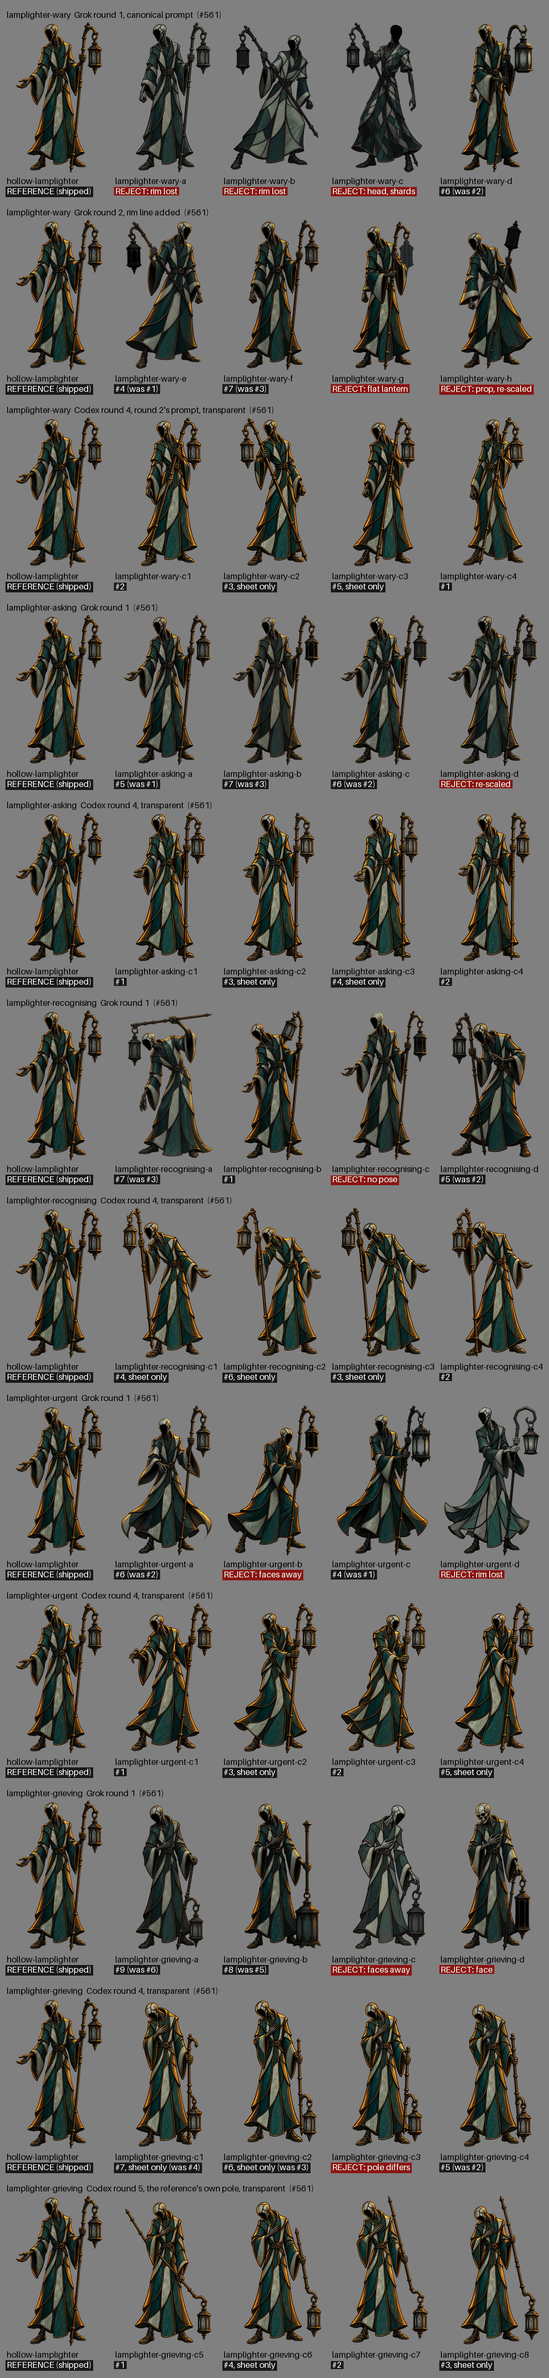
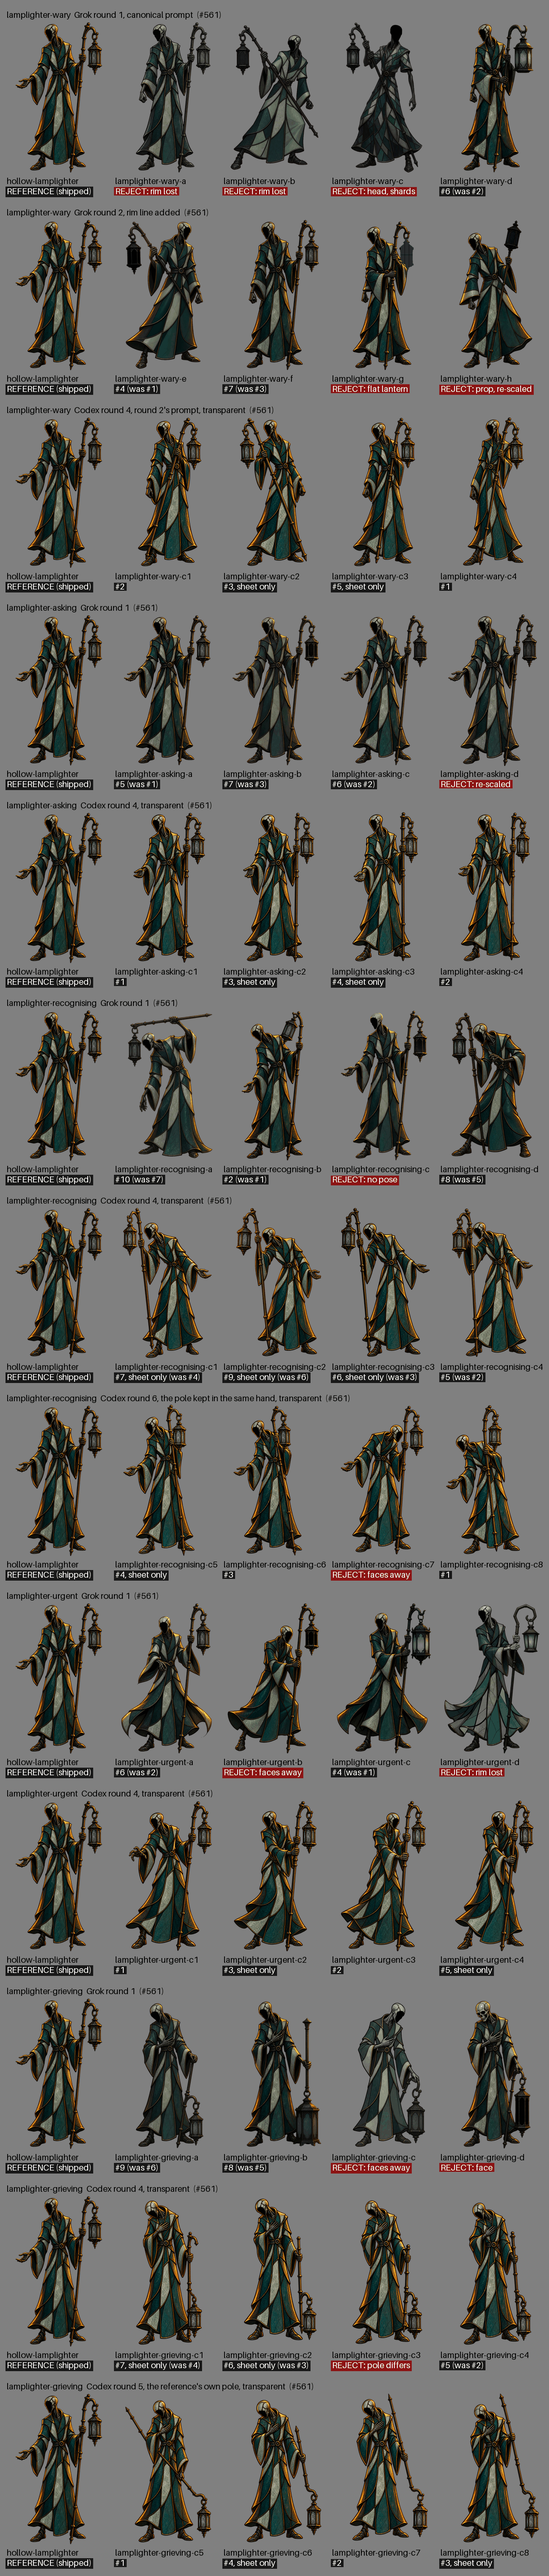
art(stagecraft): round 6, recognising with the pole kept in the same hand
The shipped lamplighter-recognising-c4 (PR #591) holds the pole in his
other hand, so the lantern changes sides on every cut to and from his
other moods. Round 6 asks Codex for the reference's own staff in the hand
on the viewer's right, with the lantern on the viewer's right of his head,
as measured on the reference and on the landed wary, asking and urgent. The
four takes vary how far he leans and how high the lantern rises.

All four keep the side: the lantern sits 118-225 px right of his head,
against the reference's 306. c7 bows toward the viewer's right, away from
his partner, and is rejected. c8, the deepest lean of all rounds with the
lantern held high, leads the cross-round ranking (c8, b, c6, c5, c4, c3,
c1, d, c2, a).

Commits c8 and c6 as survivors, rebuilds the Lamplighter contact sheet
with a round-6 row, and adds the Round 6 section with the exact requests,
the pole-side measurements and the gate.

Claude-Session: https://claude.ai/code/session_01N775uHkEnAcuFy6ZMN3DVy

diff --git a/docs/design/2026-09-29-stagecraft-art/README.md b/docs/design/2026-09-29-stagecraft-art/README.md
@@ -7,7 +7,8 @@ landing commit then copies each pick to its ledgered path, commits the
 `.import` sidecar, moves the ledger row to Shipped with the prompt that
 rendered it, and takes the stills the issues ask for.
 
-136 candidates were generated on 2026-09-29 in five rounds, and 87 survive.
+140 candidates were generated on 2026-09-29 and just after midnight in six
+rounds, and 90 survive.
 
 - **Rounds 1 to 3 (Grok Build, 69 candidates, 31 survivors).** Round 1 was the
   canonical prompts. Round 2 was an authorised follow-up for the four files
@@ -22,6 +23,11 @@ rendered it, and takes the stills the issues ask for.
   Queue's margins and slate glass and for a clean plate finish. It also redid
   `lamplighter-grieving` after James withdrew his pick, c3, over its pole, so
   round 4 now keeps 41 survivors (see Round 5).
+- **Round 6 (Codex, 4 candidates, 3 survivors).** Round 6 redid
+  `lamplighter-recognising` alone. Its pick, c4, landed in PR #591, and the
+  landing stills showed its pole and lantern changing sides against his other
+  moods on every cut. Round 6 asked for the reference's staff in the same hand
+  and on the same side (see Round 6).
 
 Each family's contact sheet shows every candidate of every round, labelled,
 rejects included, and its tags carry that cross-round ranking. `survivors/`
@@ -33,7 +39,7 @@ of the tree.
 | Family | Issue | Sheet | Generated (Grok + Codex) | Survivors (Grok + Codex) | Ranked first, across both |
 |---|---|---|---|---|---|
 | Keeper moods | #560 | [`contact-keeper.png`](contact-keeper.png) | 16 + 16 | 11 + 15 | tender-c2, offering-c3, weary-c2, beckon-c4 |
-| Hollow Lamplighter moods | #561 | [`contact-lamplighter.png`](contact-lamplighter.png) | 24 + 24 | 13 + 23 | wary-c4, asking-c1, recognising-b, urgent-c1, grieving-c5 |
+| Hollow Lamplighter moods | #561 | [`contact-lamplighter.png`](contact-lamplighter.png) | 24 + 28 | 13 + 26 | wary-c4, asking-c1, recognising-c8, urgent-c1, grieving-c5 |
 | Queue chorus | #562 | [`contact-queue.png`](contact-queue.png) | 9 + 11 | 3 + 4 | queue-chorus-c9 |
 | Unlit Way plates | #563 | [`contact-plates.png`](contact-plates.png) | 20 + 16 | 4 + 14 | unlit-way-c5, unlit-way-end-c8 |
 
@@ -137,7 +143,7 @@ only. Round 4's tables and the contact sheets carry the ranking across both
 tools, and that is the ranking to pick from. Round 5 re-ranks four files across
 every round (`queue-chorus`, `unlit-way`, `unlit-way-end` and
 `lamplighter-grieving`); for those, its tables and the sheets supersede Round
-4's verdicts. James picks.
+4's verdicts. Round 6 does the same for `lamplighter-recognising`. James picks.
 
 ## Round 2 — the authorised follow-up
 
@@ -300,7 +306,8 @@ this round came from Grok.
 | `unlit-way-end` | c1, c4, g, c3, f | Yes. In c1 the ground falls away into mist toward a small, far door at about 62% of the width; Grok's g stands on a flat plain. |
 
 Round 5 re-ranks the `lamplighter-grieving`, `queue-chorus`, `unlit-way` and
-`unlit-way-end` rows above; its cross-round ranking replaces them.
+`unlit-way-end` rows above; its cross-round ranking replaces them. Round 6 does
+the same for the `lamplighter-recognising` row.
 
 ### The gate
 
@@ -720,6 +727,165 @@ down (about 730 px), and c2 and c4 have c3's side crook (about 640 and 690 px).
    the crook back at the staff's end, which c3 had lost. Showing the full length
    would need a smaller lowering, such as the lantern at knee height: a change
    to the brief for James, not made here.
+
+## Round 6: Codex again for `lamplighter-recognising`
+
+James picked `lamplighter-recognising-c4`, ranked #2 behind Grok's b, and it
+landed in PR #591 as `portraits/lamplighter-recognising.png`, with the ledger's
+caveat that it holds the pole in his other hand. The landing stills show what
+that costs. The pole and lantern swap sides against the neighbouring mood on
+every cut that casts recognising: m1-pre (wary to recognising), m3-pre
+(recognising to wary), m4-pre (recognising to urgent), m5-pre (recognising to
+asking) and m5-post (grieving to recognising and back). In m5-post he has
+stepped aside to the far right, and the narration has him lift the lantern
+toward the east, while c4 lifts it toward the frame's centre. Round 6 gives
+James a continuity-safe alternative; c4 stays shipped unless he swaps it.
+
+Round 6 made four Codex renders, the round's cap. Three survive.
+
+- **Generation.** As in round 5: `run-imagegen.sh` resolved to `gpt-6.1-sol` at
+  xhigh reasoning effort through Codex CLI 0.159.0. One image per call, three
+  calls at a time, each in an empty working directory of its own: 4 calls of
+  161–181 s. Codex served every call, none printed `FALLBACK:` or `NOTE:`, and
+  every call returned 682×1024 RGBA first time. Each raw is a LANCZOS scale of
+  the image tool's single 1023×1537 file, identical to the pixel, so nothing
+  was pasted, thresholded, cropped or repainted.
+- **Requests.** Round 4's recognising request (round 1's, transparent),
+  verbatim, then two paragraphs of round 6's own and round 5's one-pass canvas
+  sentence. The exact request is below.
+  - The pole paragraph is built like round 5's for grieving. It names the
+    reference's staff, ring and lantern with their sizes, and states the hand
+    and the side as measured (see The pole side, measured): the staff in the
+    hand on the viewer's right, and the lantern on the viewer's right of his
+    head, about 300 px from it in the reference and 220–330 px in the landed
+    wary, asking and urgent. It says how to raise the lantern toward the face
+    he studies without crossing sides: up and in toward the viewer's left, on
+    its own side, with the crook free to turn in toward his head. It says what
+    went wrong last time. And because the crook already reaches almost to the
+    top edge, it says the lantern comes level with his head by his leaning down
+    to it, never by a shorter staff or a smaller lantern. It ends with round 5's
+    rim sentence.
+  - One THIS VERSION paragraph per take makes a 2×2 of how far he leans and
+    how high the lantern rises beside his head. c5 and c6 lean a moderate
+    amount (the head about 80 px lower and 50 px toward the viewer's left), c7
+    and c8 deeply, from the waist (about 150 px and 90 px). c5 and c7 hang the
+    lantern level with his face, c6 and c8 level with the top of his head.
+- **The gate.** As in round 4, `--no-key --expect 682x1024`. All four pass.
+- **New review aid: the pole side.** Measured outside the tool and not
+  committed. The reference's own lantern, cap to finial, is found in each
+  figure by masked template matching over scale and tilt, and its column of
+  mass is set against the centroid of the head void. dx is the lantern's centre
+  minus the head's, in pixels; positive puts the lantern on the viewer's right
+  of his head. Every match was checked on an overlay. For d and c2, whose
+  lanterns differ from the reference's, the lantern's box was read on the
+  50 px grid instead.
+- **Ranking.** As before. The side the lantern hangs on counts as continuity on
+  every cut to and from his other moods, as it did when round 4 kept b above
+  c4.
+- **What is committed.** The two best round-6 renders,
+  `survivors/lamplighter-recognising-c8.png` and `-c6.png` (1.1 MB), and the
+  rebuilt Lamplighter sheet (0.16 MB more): round 6 adds 1.3 MB, within the
+  25 MB cap. c5 is sheet only and c7 is rejected. The raw renders, the
+  requests and the call logs are kept outside the tree. Codex wrote no image
+  prompt of its own this round.
+- **Contact sheet.** Rebuilt by round 4's method. Built without the new row, it
+  reproduces the committed sheet byte for byte. `lamplighter-recognising` gains
+  a labelled round-6 row, and the tags carry the new ranking.
+
+<details><summary>Exact request: lamplighter-recognising-c5, and how c6 to c8 differ</summary>
+
+```text
+Read the reference image at <repo>/assets/art/meta/hollow-lamplighter.png and produce an edited variation of it.
+
+Serious cartoon-gothic stained-glass game art: chunky dark outer silhouette, simplified exaggerated proportions, one iconic readable pose, 3-5 large jewel-tone glass colour masses with very few thick lead dividers, matte painterly texture, warm amber rim light, soft controlled inner glow. Designed to remain readable at 128px. No text, no labels, no watermark.
+
+CONSTRUCTION, this is the most important instruction: the figure is not painted cloth. His entire robe and body are built from large flat panes of coloured glass separated by thick black lead came lines, exactly like a cathedral stained-glass window rendered as a character. Each fold of the robe is a distinct glass pane with a hard lead border, not a soft painted fold. Only a few big panes, never lacework or many small pieces. The lead lines are heavy, black, and clearly visible across the whole figure. Glass is cold grey-green and deep teal, lit from within by a faint cold glow, with thin worn gold edging on the lead. Readable as a solid black shape if all internal detail were removed.
+
+Output a PNG with a TRANSPARENT background (alpha 0 outside the figure); no magenta, no floor, no shadow, no vignette. Black exists ONLY inside the head void. EDIT THE ATTACHED REFERENCE: keep the exact same canvas size, figure scale, position, bounding box, hem line, pane layout and palette; change ONLY the pose described below. Single complete figure, no cropped limbs.
+
+The Hollow Lamplighter, a gaunt keeper, tall and skull-thin, in a long floor-length robe. Bare head, no raised hood, face a deep black void with no glowing eyes. The one warm colour in the frame is an amber rim light falling on him from outside the frame, from a fire he is not carrying. He holds a tall iron lantern pole; the lantern hanging from it is DARK AND EMPTY, with cold dead glass panes and no flame inside, the single unlit object in the frame, in every pose.
+
+POSE CHANGE: he leans forward toward the viewer's left with his head tilted, as if studying a face; the dark empty lantern is raised high beside his head, as though to light a face it cannot light.
+
+THE LANTERN POLE IS THE SAME OBJECT AS IN THE REFERENCE, IN THE SAME HAND AND ON THE SAME SIDE OF HIM. Keep it exactly: one straight iron staff about 1000 px long from end to end, with raised iron rings along the shaft and a pointed iron foot at its lower end; at its upper end the shepherd's crook, which IS the end of the staff, curving over about 90 px and finishing in a small curl; a round ring hanging from the crook's tip; and from that ring the same tall six-sided lantern, about 95 px wide and 235 px tall with its cap and bottom finial, dark and empty, with cold dead glass panes. In the reference he grips the staff in the hand on the viewer's right (his own left hand) at upper-chest height, and the lantern hangs on the viewer's right of his head: its centre is about 300 px to the right of the centre of his head, about 86 percent of the way across the canvas from the left edge. His other moods drawn from this reference keep it there: wary, asking and urgent all hold the staff in the hand on the viewer's right, with the lantern 220 to 330 px to the viewer's right of his head. So here too the staff stays in the hand on the viewer's right, and the lantern stays on the viewer's right of his head and body. Raising the lantern toward the face he studies means lifting the staff in that same hand, up and in toward the viewer's left, so that the lantern comes up close beside his head, on the viewer's right of it; the crook may turn in toward his head so that the lantern hangs near his face. The lantern never crosses in front of his head or past it to the viewer's left, and the staff never passes to the hand on the viewer's left. What went wrong last time, and must not happen again: the staff moved to his other hand, the one on the viewer's left, and the lantern was raised on the viewer's left of his head, so the lantern jumped to the other side of him on every cut to and from his other moods. In the reference the crook already reaches almost to the top edge of the canvas, so the lantern cannot hang much higher on the canvas: it comes level with his head because he leans forward and down toward it. If the top edge leaves too little room, he leans further; the crook stays inside the top edge, the staff is never cut or shortened, and the lantern is never made smaller to fit. The palette and the amber rim on BOTH edges of the figure stay exactly as in the reference.
+
+THIS VERSION: he leans forward a moderate amount toward the viewer's left, his head coming down about 80 px and about 50 px toward the viewer's left, and the lantern hangs level with his face, just to the viewer's right of it.
+
+Canvas: exactly 682x1024 pixels. Generate exactly one image; do not crop, stretch, pad, move or repaint anything afterwards, and do not paste, threshold or otherwise replace its alpha. If the image tool returns another size, only scale the whole image uniformly to 682x1024.
+
+Save the result as a PNG file at <scratch>/recog-r6/raw/lamplighter-recognising-c5.png
+```
+
+c6 to c8 differ only in the THIS VERSION paragraph (and their own file name):
+
+- c6: "THIS VERSION: he leans forward a moderate amount toward the viewer's left, his head coming down about 80 px and about 50 px toward the viewer's left, and the lantern is lifted higher, level with the top of his head, just to the viewer's right of it."
+- c7: "THIS VERSION: he stoops deeply forward toward the viewer's left, bending from the waist, his head coming down about 150 px and about 90 px toward the viewer's left, and the lantern hangs level with his face, just to the viewer's right of it."
+- c8: "THIS VERSION: he stoops deeply forward toward the viewer's left, bending from the waist, his head coming down about 150 px and about 90 px toward the viewer's left, and the lantern is lifted higher, level with the top of his head, just to the viewer's right of it."
+
+</details>
+
+### The pole side, measured
+
+| Figure | Lantern centre (share of width) | dx (px) | Side |
+|---|---|---|---|
+| `hollow-lamplighter.png`, the reference | 0.86 | +306 | right |
+| `lamplighter-wary-c1`, landed | 0.77 | +218 | right |
+| `lamplighter-asking-c1`, landed | 0.81 | +277 | right |
+| `lamplighter-urgent-c1`, landed | 0.88 | +334 | right |
+| `lamplighter-grieving-c5`, round 5's #1 | 0.87 | +285 | right |
+| recognising `b` (Grok) | 0.65 | +219 | right |
+| recognising `a` and `d` (Grok) | 0.19, 0.18 | −84, −136 | left |
+| recognising `c1` to `c3` (round 4) | 0.15, 0.20, 0.16 | −124, −148, −129 | left |
+| recognising `c4` (round 4), landed | 0.19 | −124 | left |
+| recognising `c5` to `c8` (round 6) | 0.63, 0.59, 0.83, 0.53 | +197, +186, +118, +225 | right |
+
+Grok's c, which did not apply the pose and is rejected, keeps the shipped
+lantern (+307).
+
+### Round 6 gate and verdicts
+
+| File | Size | Magenta | Frame dark (bottom edge) | Corners | ≥240 | Lantern dx | Gate | Verdict | Notes |
+|---|---|---|---|---|---|---|---|---|---|
+| `lamplighter-recognising-c5.png` | 682×1024 | 4 | 94 (3) | 0 | 94.1% | +197 | pass | #4, sheet only | The staff stays in the hand on the viewer's right and the lantern on its usual side, 197 px right of his head, but at his jaw (its centre 55 px below the head's), so it is held beside his head rather than raised. The head tilts toward the viewer's left and drops 71 px; the body barely leans, and the free hand stays out palm up as in the shipped pose, which also reads as asking. The whole staff (about 1,010 px), crook, ring and full-size lantern are the reference's; the crook's knob touches the top edge. Palette and both rims as the reference (S 61, V 25; warm 23.0%, L:R 0.86). |
+| [`lamplighter-recognising-c6.png`](survivors/lamplighter-recognising-c6.png) | 682×1024 | 0 | 7 (0) | 0 | 94.3% | +186 | pass | **#3** | As c5 with the head lower (92 px down) and the lantern closer, beside his face: 186 px right of his head, its centre 36 px below the head's. The staff (about 1,010 px), crook and ring are the reference's; the lantern is about 0.9 of its size. The palette and rims nearest the reference of the round (S 60, V 23; warm 20.4%, L:R 0.87). |
+| `lamplighter-recognising-c7.png` | 682×1024 | 0 | 10 (0) | 0 | 93.2% | +118 | pass | reject | His head drops 122 px but moves 164 px toward the viewer's right and bows toward the lantern, so the head void faces away from the partner the stage seats on his left, as round 1's urgent-b and grieving-c did. The staff, crook, ring and full-size lantern are the reference's, in the hand on the viewer's right (the lantern 118 px right of his head). |
+| [`lamplighter-recognising-c8.png`](survivors/lamplighter-recognising-c8.png) | 682×1024 | 0 | 70 (0) | 0 | 94.0% | +225 | pass | **#1** | The deepest lean of all rounds: his head bows 186 px lower and 144 px toward the viewer's left, as if peering close at a face, while the hand on the viewer's right holds the staff upright and the dark lantern hangs high on its usual side, its centre 66 px above his lowered head and 225 px to the right of it (the landed wary, asking and urgent: 218-334 px). The staff (about 980 px), crook and ring are the reference's; the lantern is about 0.9 of its size. Palette and both rims as the reference (S 63, V 25; warm 20.3%, L:R 0.86). The free hand is out low, palm up. |
+
+### Cross-round ranking after round 6
+
+| File | Ranking | What round 6 changed |
+|---|---|---|
+| `lamplighter-recognising` | c8, b, c6, c5, c4, c3, c1, d, c2, a | Round 6 leads with c8, the deepest lean of all rounds, with the dark lantern held high on its usual side. b keeps #2: its lantern rises higher beside the head than in c6 and c5, which hold it at the jaw but match the landed moods' Codex glass. c4, the shipped file, drops to #5 behind every take that keeps the side, as round 4 already ranked b above it. Measured for the first time, Grok's a and d move the lantern too. |
+
+### Round 6 findings
+
+1. **Naming the hand and the side held them.** All four renders keep the staff
+   in the hand on the viewer's right and hang the lantern on the viewer's right
+   of his head (dx +118 to +225, against the reference's +306 and the landed
+   moods' +218 to +334). Before round 6, one recognising take in seven that
+   drew the pose kept that side, Grok's b. The brief's face on the viewer's
+   left pulls the lantern across to it: Grok's a and d moved it, as did all four
+   of round 4's. On m5-post's far-right seat the round-6 survivors lift the
+   lantern on his outer side, away from the frame's centre.
+2. **The lantern cannot rise on this canvas; the head comes down to it.** The
+   crook already reaches the top edge, and the lantern's centre stayed at
+   y 207–227 in all four, against the reference's 238. Its height beside his
+   head came from the lean alone: 55 px below the head's centre in c5, 36 in
+   c6 and 18 in c7, and 66 above it in c8, whose head dropped 186 px. The
+   height sentence barely moved it: the takes asked for the top of his head
+   hang the lantern within 20 px of those asked for his face (y 214 against
+   213 with the moderate lean, 207 against 227 with the deep one).
+3. **One deep lean went the wrong way.** c7 dropped its head 122 px, but toward
+   the lantern, to the viewer's right, and faces away from its partner. c8
+   leaned the way asked, and further (144 px toward the viewer's left).
+4. **The free hand stays in the asking pose.** All four keep the reference's
+   open palm, as round 4's did; the brief does not move it. So on m2-pre and
+   m5-pre, where recognising cuts to asking, the change is the head and the
+   lantern, not the hand.
+5. **The lantern shrinks a little in two.** c6 and c8 match the reference's
+   lantern at about 0.9 of its size (about 93 by 214 px), c5 and c7 at 0.97.
+6. **No rate limit.** The four calls ran in 5.5 minutes, three at a time, and
+   none fell back.
 
 ## Keeper — #560
 
